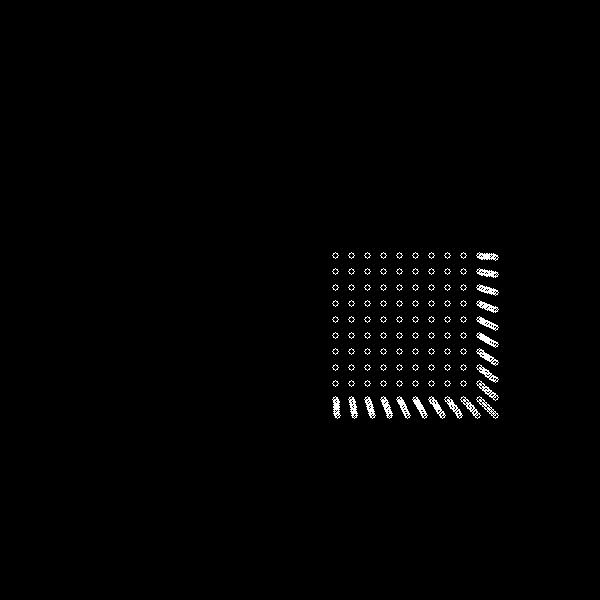
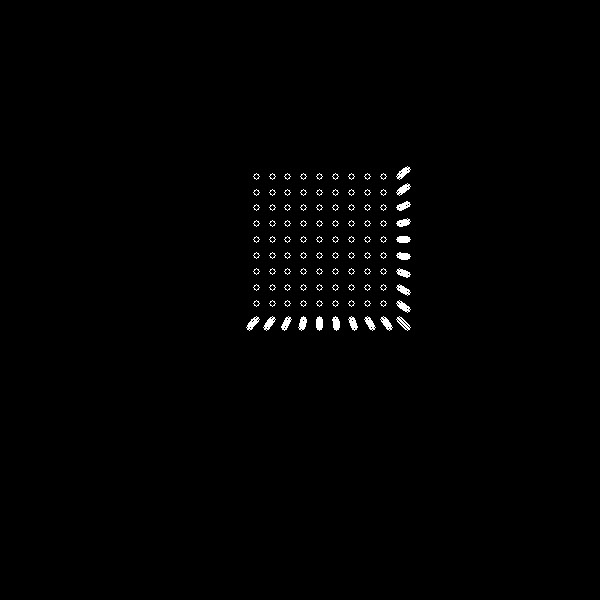
parameters updated

Changed region(s): [[0.54, 0.42, 0.84, 0.69], [0.42, 0.27, 0.69, 0.57]]

diff --git a/ex3/main.py b/ex3/main.py
@@ -10,7 +10,7 @@ if __name__ == '__main__':
 	#proj.printMatrix(pontos)
 
 	[f, sx, sy, ox, oy] = [16, 0.01, 0.01, 320, 240]
-	rotx, roty, rotz, dx, dy, dz = [0 , 0, 0, 10, 10 ,100]
+	rotx, roty, rotz, dx, dy, dz = [0 , 0, 0, 5, 5 ,100]
 	
 	H = proj.homogenea(rotx, roty, rotz, dx, dy, dz)
 	print(pontos.shape)
